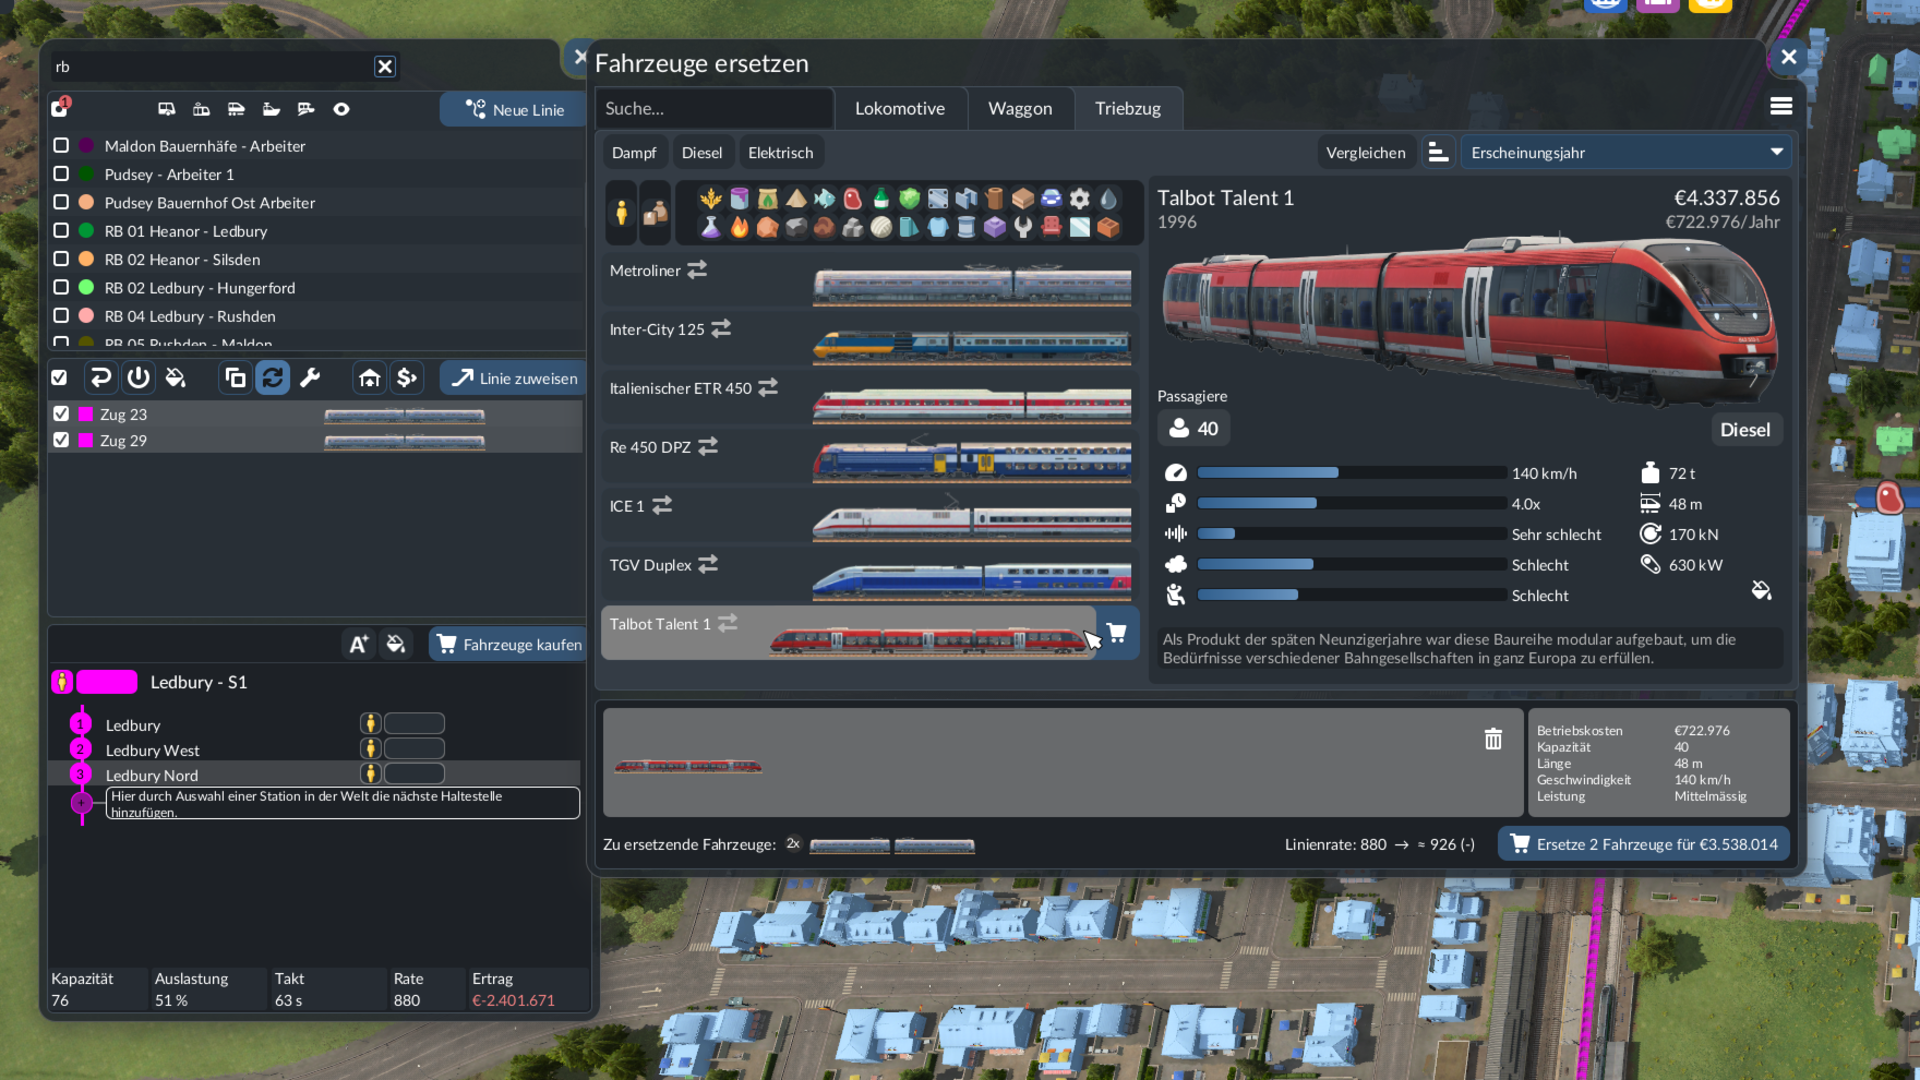
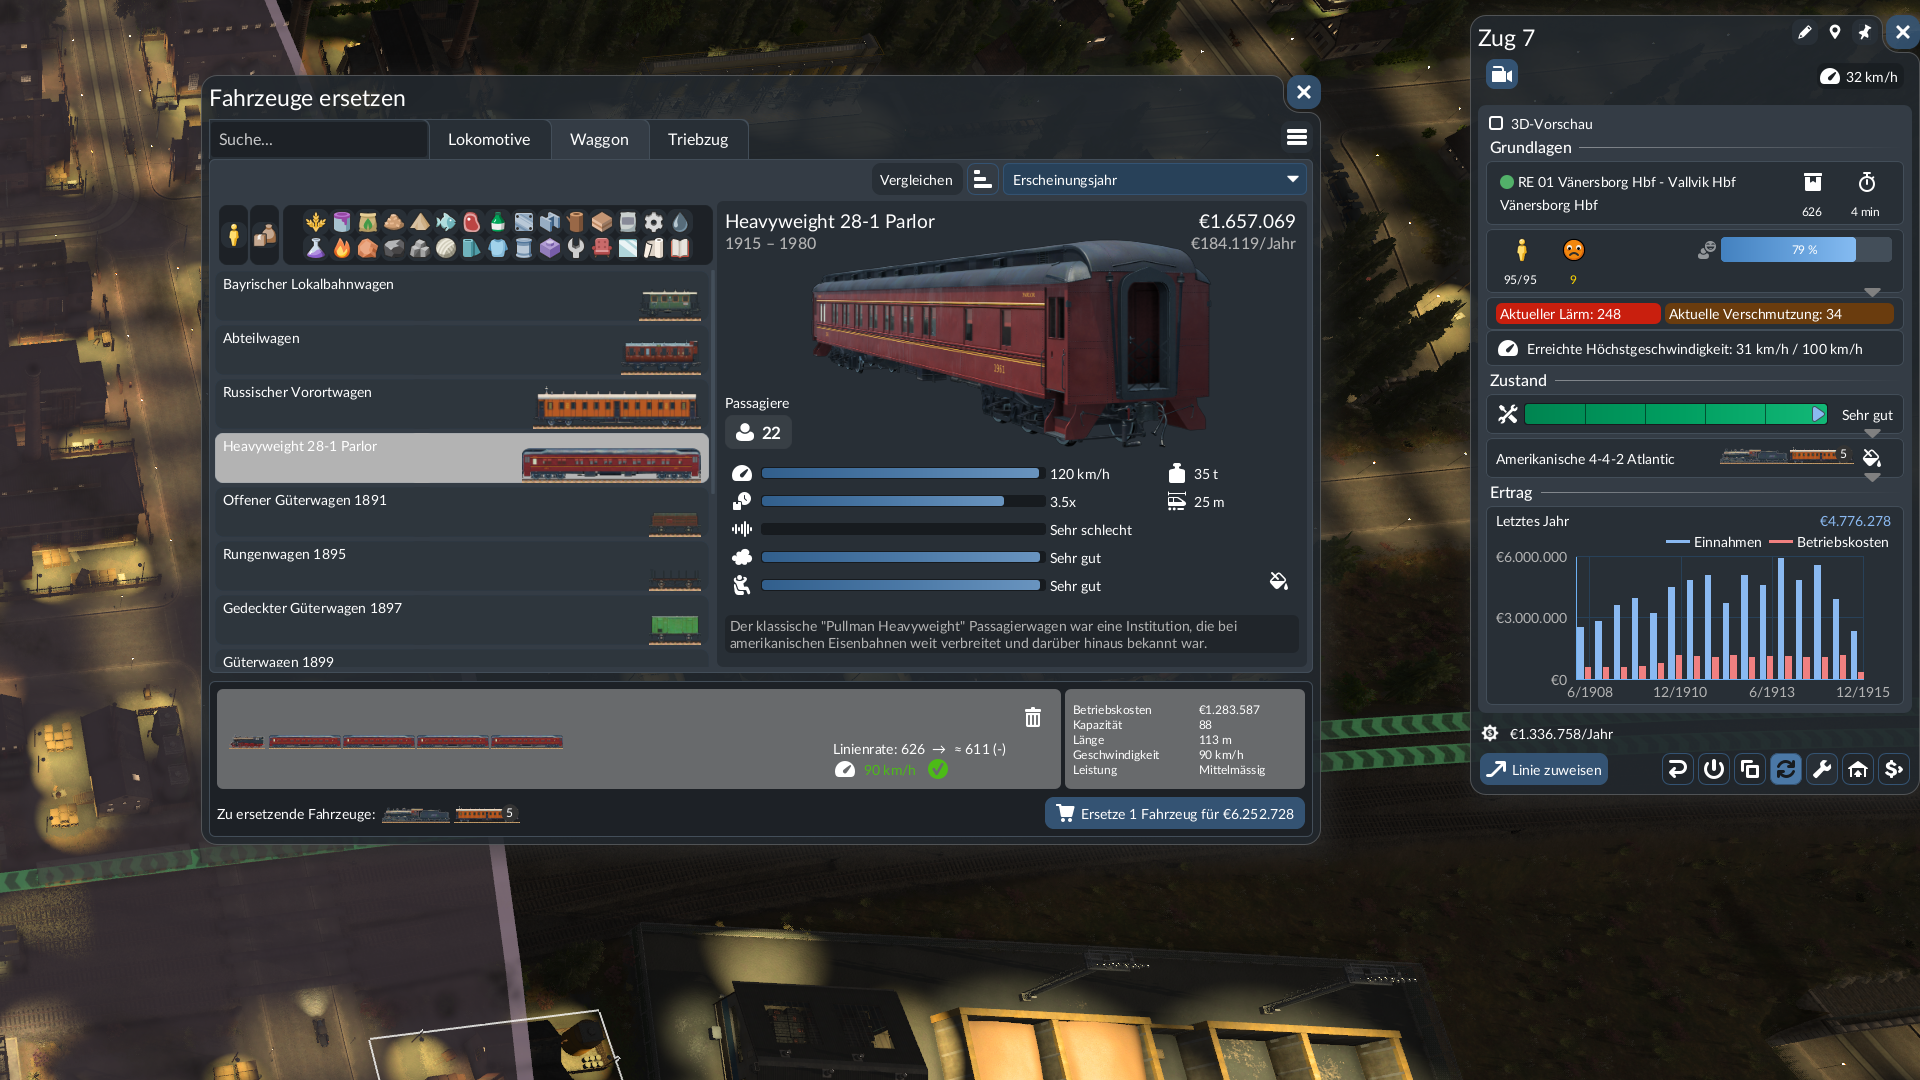
feat: move display to shopping cart when replacing
Moves the display for the new rate and speed in the shopping cart
to prevent conflicts with other mods using the bar before the buy button

diff --git a/README.md b/README.md
@@ -80,14 +80,19 @@ wrapping their fields affects the base scripts):
   are called once per cart entry → capacities per entry; `builtin.CheckBox`
   gives the entry's checkbox state, `builtin.DoubleSpinBox` the amount.
 - `builtin.BoxLayout` with class `bottom-bar-layout` is the cart's bottom
-  bar → the text is inserted in front of its stretch spacer.
+  bar → the text is inserted in front of its stretch spacer (Buy, Modify).
+- Replace: the bottom bar is already filled by the "Vehicles To Replace"
+  widget, which other mods extend (e.g. Better Vehicle Stats), so the text
+  goes into the single cart entry instead: the `builtin.BoxLayout` holding
+  the `builtin.Button` with class `consist-delete`, aligned bottom right by
+  `rate_preview.css.lua`.
 - Rate: `api.engine.util.line.calcLineStationThroughput`; capacities:
   `statistics_react_util.calculateCargoColumnDataForLine/-ForVehicle(...).demand`
   and `cargo_util.getSortedProducedCargoTypes` for the line's cargo types.
 
 ## Reachable speed between stops
 
-For land vehicles the bottom bar also shows `reaches ≈ 227 km/h` when the
+For land vehicles the preview also shows `reaches ≈ 227 km/h` when the
 consist cannot reach its top speed between the stops of the line (mod
 parameter, on by default). Per section (straight-line distance between
 consecutive stops, waypoints included) the largest speed is searched for
